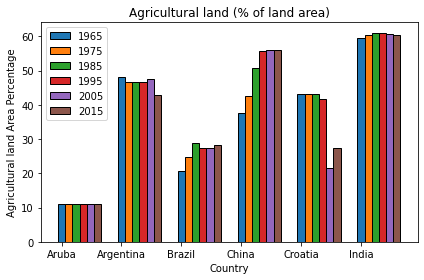
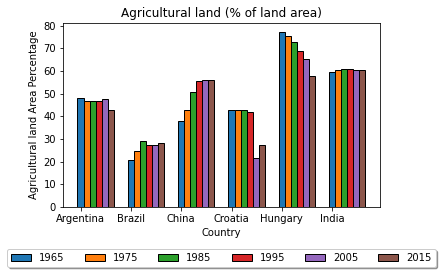
Modification in coding and line graph code added

diff --git a/Population.py b/Population.py
@@ -29,31 +29,77 @@ def barGraph(df,columns, xlabel, ylabel, title):
     ax.set_xlabel(xlabel)
     ax.set_title(title)
     ax.set_xticks(x, labels)
-    ax.legend()    
+    ax.legend(loc='upper center', bbox_to_anchor=(0.5, -0.2),fancybox=True, shadow=True, ncol=6)    
     fig.tight_layout()  
     plt.show()
-    
+
+
+#A function to plot the line graph
+def linegraph(df,columns, xlabel, ylabel, title): 
+    """
+    The linegraph function used to plot line grpah.
+    The plot represents the total percentage of Co2 emissions from solid fuel consumption
+    in each selected contries   
+    """
+    df = df.loc[:, ['Country Name','1965', '1975', '1985', '1995', '2005', '2015']].reset_index(drop=True).fillna(0.0)
+    df=df.set_index('Country Name').transpose()
+    df['Years'] = df.index
+    temp_cols=df.columns.tolist()
+    new_cols=temp_cols[-1:] + temp_cols[:-1]
+    df=df[new_cols]
+    df=df.reset_index(drop=True)
+    df= df.rename_axis(None, axis=1)
+
+    labels = df['Years']
+    print(columns)
+    x=df['Years']
+    i=0
+    plt.figure()
+    for y in columns:
+        plt.plot(x,df[y],linestyle='dashed',label=y)
+        i=i+1   
+    plt.legend(loc='upper center', bbox_to_anchor=(0.5, -0.2),fancybox=True, shadow=True, ncol=6)
+    plt.title(title)
+    plt.xlabel(xlabel)
+    plt.ylabel(ylabel)
+    plt.show()    
+
+
+
+
 #reading the data set    
 dataloc="Dataset.csv"
 Data = pd.read_csv("Dataset.csv",sep='\t',skiprows=4,engine='python')
 df_Data = pd.DataFrame(Data)
+
 #Choosing indicator (Urban population (% of total population)) and updating dataframe according to that
 urbanPopulation = df_Data.loc[df_Data['Indicator Name'].isin(["Urban population (% of total population)"])]
 df_urbanPopulation = urbanPopulation.dropna()
-df_urbanPopulationSelected = df_urbanPopulation.loc[df_urbanPopulation['Country Code'].isin(['ABW','BRA','IND','ARG','HRV','CHN'])]
+df_urbanPopulationSelected = df_urbanPopulation.loc[df_urbanPopulation['Country Code'].isin(['HUN','BRA','IND','ARG','HRV','CHN'])]
 df_population = df_urbanPopulationSelected.loc[:, ['Country Name','1965', '1975', '1985', '1995', '2005', '2015']].reset_index(drop=True)
 
 #Choosing indicator (Agricultural land (% of land area)) and updating dataframe according to that
 df_agriculturalLand = df_Data.loc[df_Data['Indicator Name'].isin(["Agricultural land (% of land area)"])]
-df_agriculturalLandSelected = df_agriculturalLand.loc[df_agriculturalLand['Country Code'].isin(['ABW','BRA','IND','ARG','HRV','CHN'])]
+df_agriculturalLandSelected = df_agriculturalLand.loc[df_agriculturalLand['Country Code'].isin(['HUN','BRA','IND','ARG','HRV','CHN'])]
 df_agriculturalLand = df_agriculturalLandSelected.loc[:, ['Country Name','1965', '1975', '1985', '1995', '2005', '2015']].reset_index(drop=True)
-print(df_agriculturalLand)
 years=['1965','1975','1985','1995','2005','2015']
 
+
+#Choosing indicator (Agricultural land (% of land area)) and updating dataframe according to that
+df_Co2emmission = df_Data.loc[df_Data['Indicator Name'].isin(["CO2 emissions from solid fuel consumption (% of total)"])]
+df_Co2emmission = df_Co2emmission.loc[df_Co2emmission['Country Code'].isin(['HUN','BRA','IND','ARG','HRV','CHN'])]
+Countries=['Hungary','Argentina','Brazil','China','Croatia','India']
+
+#Choosing indicator (Agricultural land (% of land area)) and updating dataframe according to that
+df_Arable = df_Data.loc[df_Data['Indicator Name'].isin(["Arable land (% of land area)"])]
+df_Arable = df_Arable.loc[df_Arable['Country Code'].isin(['HUN','BRA','IND','ARG','HRV','CHN'])]
+Countries=['Hungary','Argentina','Brazil','China','Croatia','India']
 
 #Calling functions to plot the grpahs
 barGraph(df_population,years,'Country','Population Percentage','Urban population (% of total population)')
 barGraph(df_agriculturalLand,years,'Country','Agricultural land Area Percentage','Agricultural land (% of land area)')
+linegraph(df_Co2emmission,Countries,'Year','CO2 Emission Percentage','CO2 emissions from solid fuel consumption (% of total)')
+linegraph(df_Arable,Countries,'Year','Arable land Percentage','Arable land (% of land area)')
 
 
 
